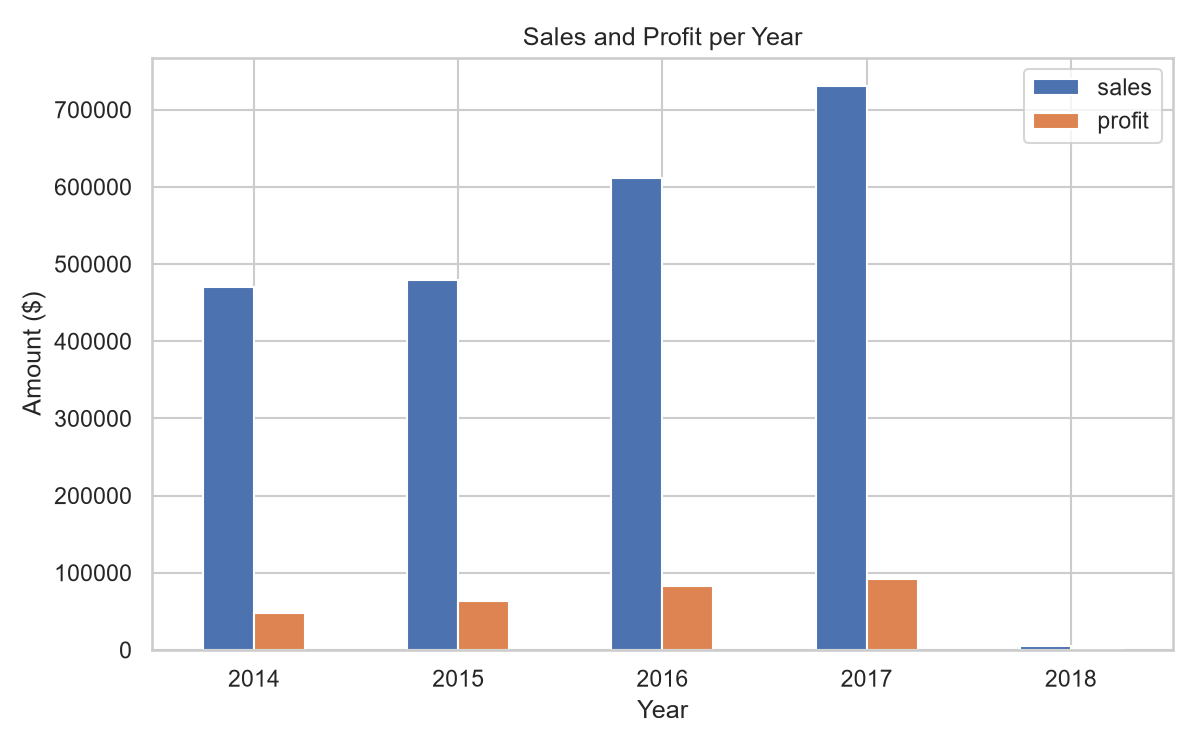
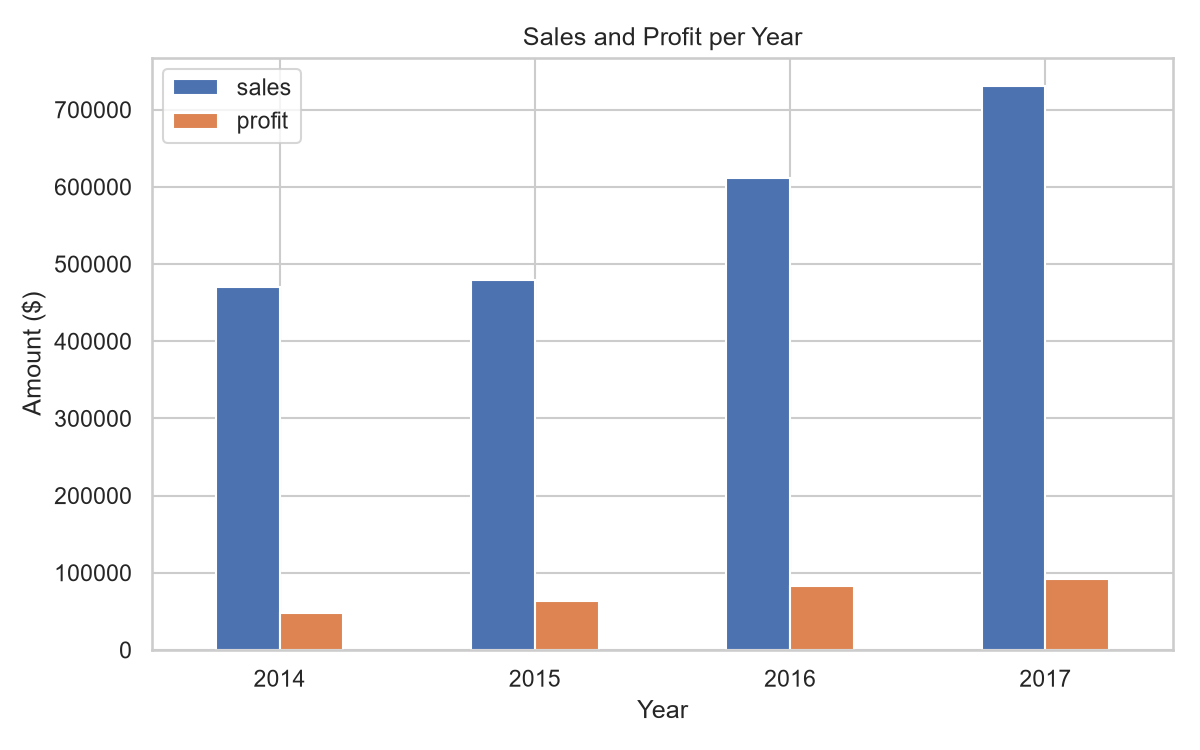
2018 partial data excluded

diff --git a/run_queries.py b/run_queries.py
@@ -31,7 +31,7 @@ def save(name):
     plt.close()
 
 # Chart 1: sales and profit per year
-results['yearly_sales'].plot(x='year', y=['sales', 'profit'], kind='bar', figsize=(8, 5))
+results['yearly_sales'].query("year != '2018'").plot(x='year', y=['sales', 'profit'], kind='bar', figsize=(8, 5))
 plt.title('Sales and Profit per Year')
 plt.xlabel('Year')
 plt.ylabel('Amount ($)')
